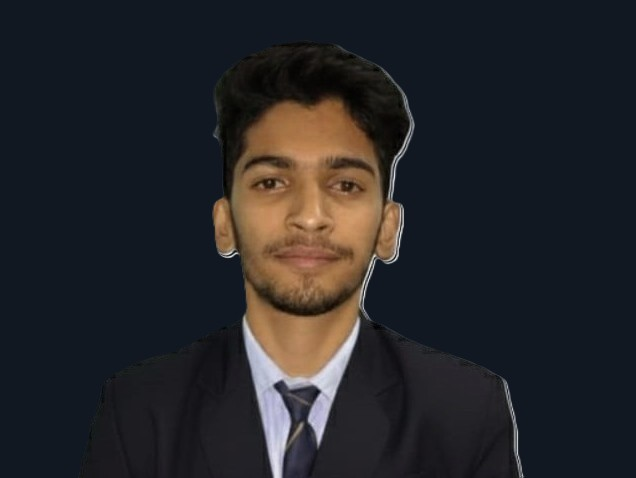
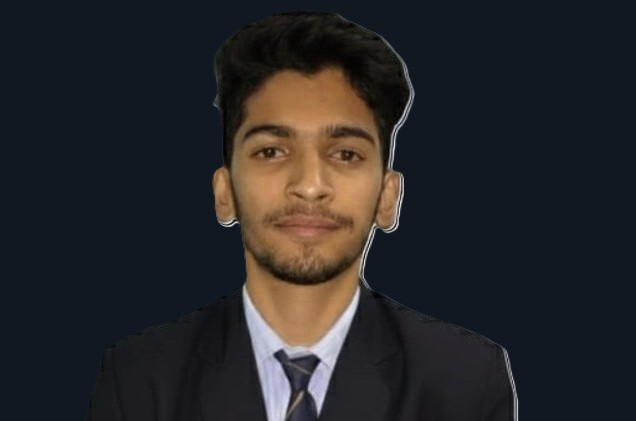
added meta data

diff --git a/src/App.jsx b/src/App.jsx
@@ -269,7 +269,7 @@ const About = () => {
               viewport={{ once: true }}
               className="relative"
             >
-              <div className="w-full h-96 bg-gradient-to-br from-purple-500 to-pink-600 rounded-2xl overflow-hidden">
+              <div className="w-full h-59 bg-gradient-to-br from-purple-500 to-pink-600 rounded-2xl overflow-hidden">
                 <img
                   src={profilee}
                   alt="Profile"
@@ -436,7 +436,7 @@ const Projects = () => {
           viewport={{ once: true }}
           className="text-4xl md:text-5xl font-bold text-center mb-12 bg-gradient-to-r from-purple-400 to-pink-600 bg-clip-text text-transparent"
         >
-          MY PROJECTS
+          MY PROJECTS   
         </motion.h2>
 
         <div className="grid md:grid-cols-2 lg:grid-cols-3 gap-8">
